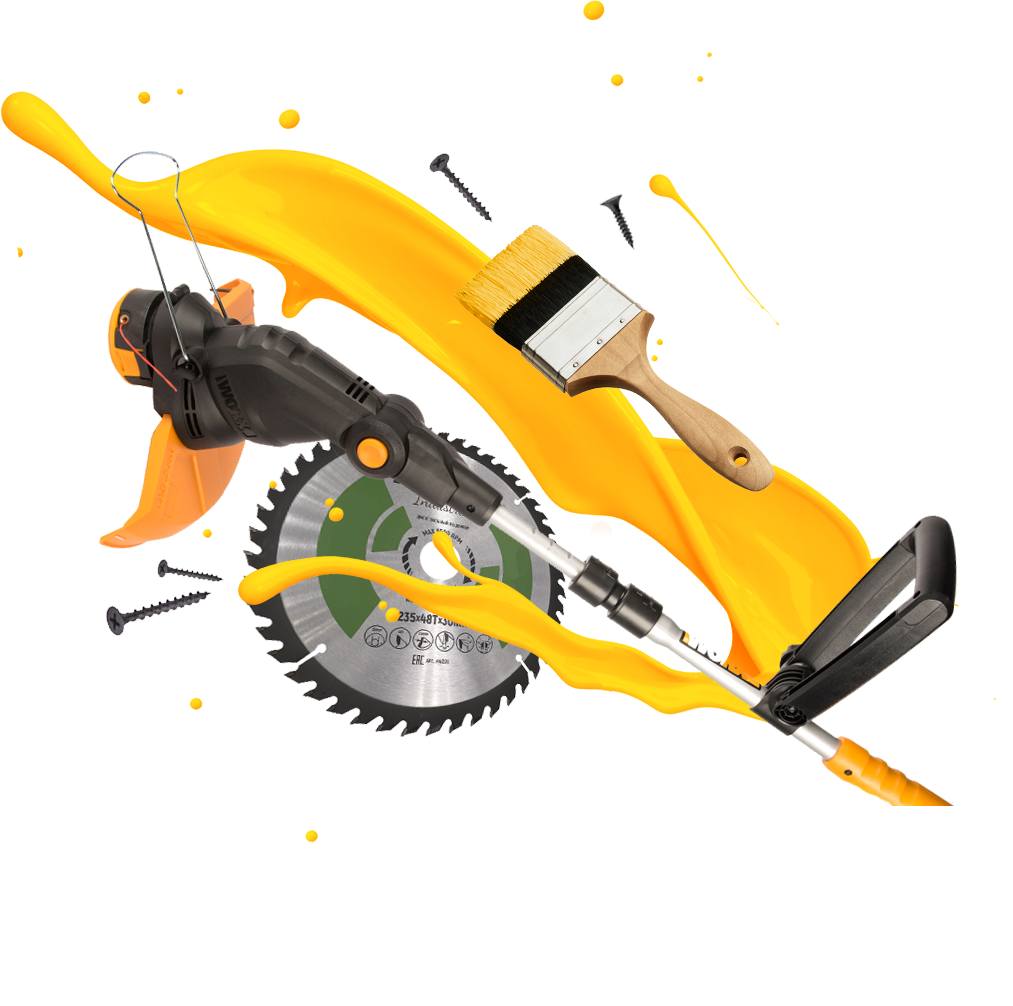
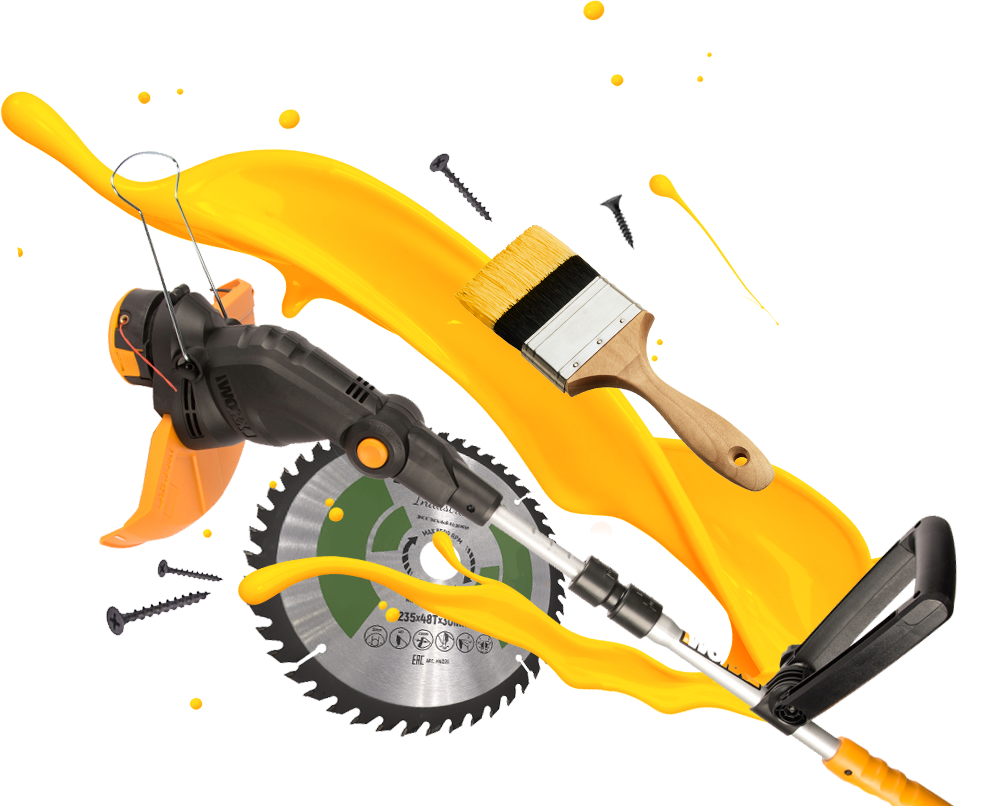
partners slider

diff --git a/components/Partners/index.tsx b/components/Partners/index.tsx
@@ -1,11 +1,85 @@
 import { Container } from '../Layout/Container'
 import style from './style.module.scss'
+import { useState, useEffect, useRef } from 'react'
+import { LongArrow } from '../../assets/svgs/longArrows'
+import Image from 'next/image'
+import { Primary } from '../UI/PrimaryText'
+
+const data = [
+  { image: '', link: '' },
+  { image: '', link: '' },
+  { image: '', link: '' },
+  { image: '', link: '' },
+  { image: '', link: '' },
+  { image: '', link: '' },
+  { image: '', link: '' },
+  { image: '', link: '' },
+  { image: '', link: '' },
+  { image: '', link: '' },
+  { image: '', link: '' },
+  { image: '', link: '' },
+]
 
 export default function Partners() {
+  const ref = useRef<HTMLDivElement>(null)
+  const [offset, setOffset] = useState<number>(0)
+
+  const changeOffset = (a: number) => {
+    const min = 0
+    const max = data.length * 210 - ref.current?.offsetWidth! - 10
+
+    if (a > max && a - max < 210) setOffset(max)
+    else if (a < 0 && min - a < 210) setOffset(min)
+    else setOffset(a > max ? min : a < min ? max : a)
+  }
+
+  useEffect(() => {
+    const timer = setTimeout(() => {
+      changeOffset(offset + 210)
+    }, 3000)
+
+    return () => clearTimeout(timer)
+  }, [offset, changeOffset])
+
   return (
     <section className={style.Partners}>
-      <Container>
-        <h1>Partners</h1>
+      <Container className={style.Content}>
+        <div className={style.Title}>
+          <h2>Наші партнери</h2>
+        </div>
+
+        <div className={style.Slider}>
+          <div
+            className={style.Arrow}
+            onClick={() => changeOffset(offset - 210)}
+          >
+            <LongArrow.Left />
+          </div>
+          <div className={style.PartnersList} ref={ref}>
+            <div
+              className={style.List}
+              style={{
+                translate: `-${offset}px`,
+              }}
+            >
+              {data.map((item, index) => (
+                <a key={index} className={style.Item} href={item.link}>
+                  {item.image ? (
+                    <Image src={item.image} layout="fill" />
+                  ) : (
+                    <Primary className={style.Primary}>Partner</Primary>
+                  )}
+                </a>
+              ))}
+            </div>
+          </div>
+          <div
+            className={style.Arrow}
+            onClick={() => changeOffset(offset + 210)}
+          >
+            <LongArrow.Right />
+          </div>
+        </div>
       </Container>
     </section>
   )

diff --git a/components/Partners/style.module.scss b/components/Partners/style.module.scss
@@ -1,3 +1,92 @@
+@import '../../styles/variables.scss';
+
 .Partners {
   margin-top: 50px;
+
+  .Title {
+    width: 100%;
+    display: flex;
+    justify-content: center;
+    align-items: center;
+    flex-direction: column;
+
+    h2 {
+      font-size: 48px;
+      font-weight: 900;
+
+      margin-bottom: 20px;
+    }
+  }
+
+  .Slider {
+    position: relative;
+    margin-top: 20px;
+    width: 100%;
+
+    display: flex;
+    align-items: center;
+    justify-content: space-between;
+    gap: 20px;
+
+    .Arrow {
+      width: 95px;
+      height: 40px;
+      border-radius: 6px;
+
+      display: flex;
+      align-items: center;
+      justify-content: center;
+
+      background-color: $lightColor;
+      box-shadow: 0 2px 4px 0 rgba(0, 0, 0, 0.1);
+
+      z-index: 10;
+    }
+
+    .PartnersList {
+      position: relative;
+      width: 100%;
+      height: 60px;
+
+      overflow: hidden;
+
+      .List {
+        display: flex;
+        align-items: center;
+        justify-content: center;
+
+        gap: 10px;
+
+        transition: translate 0.5s ease-in-out;
+
+        position: absolute;
+
+        left: 0;
+        top: 0;
+
+        .Item {
+          position: relative;
+          height: 60px;
+          width: 200px;
+
+          transition: filter 0.5s;
+
+          &:hover {
+            filter: grayscale(100);
+          }
+
+          .Primary {
+            position: absolute;
+
+            left: 50%;
+            top: 50%;
+            transform: translate(-50%, -50%);
+
+            font-size: 44px;
+            font-weight: 900;
+          }
+        }
+      }
+    }
+  }
 }

diff --git a/components/Media/index.tsx b/components/Media/index.tsx
@@ -17,7 +17,14 @@ export default function Media() {
       <Container className={style.Content}>
         <div className={style.Block}>
           <div className={style.Background}>
-            <Image src={BgImage} alt="background" width={1013} height={1006} />
+            <Image
+              src={BgImage}
+              alt="background"
+              width={1006}
+              height={806}
+              layout="fixed"
+              quality={100}
+            />
           </div>
 
           <h2>Вітаю дорогий відвідувач</h2>

diff --git a/components/Media/style.module.scss b/components/Media/style.module.scss
@@ -4,14 +4,12 @@
   position: relative;
   margin-top: 50px;
 
-  z-index: 1;
+  z-index: 0;
 
   .Background {
     position: absolute;
-    // width: 1013px;
-    // height: 1006px;
     left: -210px;
-    bottom: -200px;
+    bottom: -3px;
     z-index: -1;
 
     pointer-events: none;
